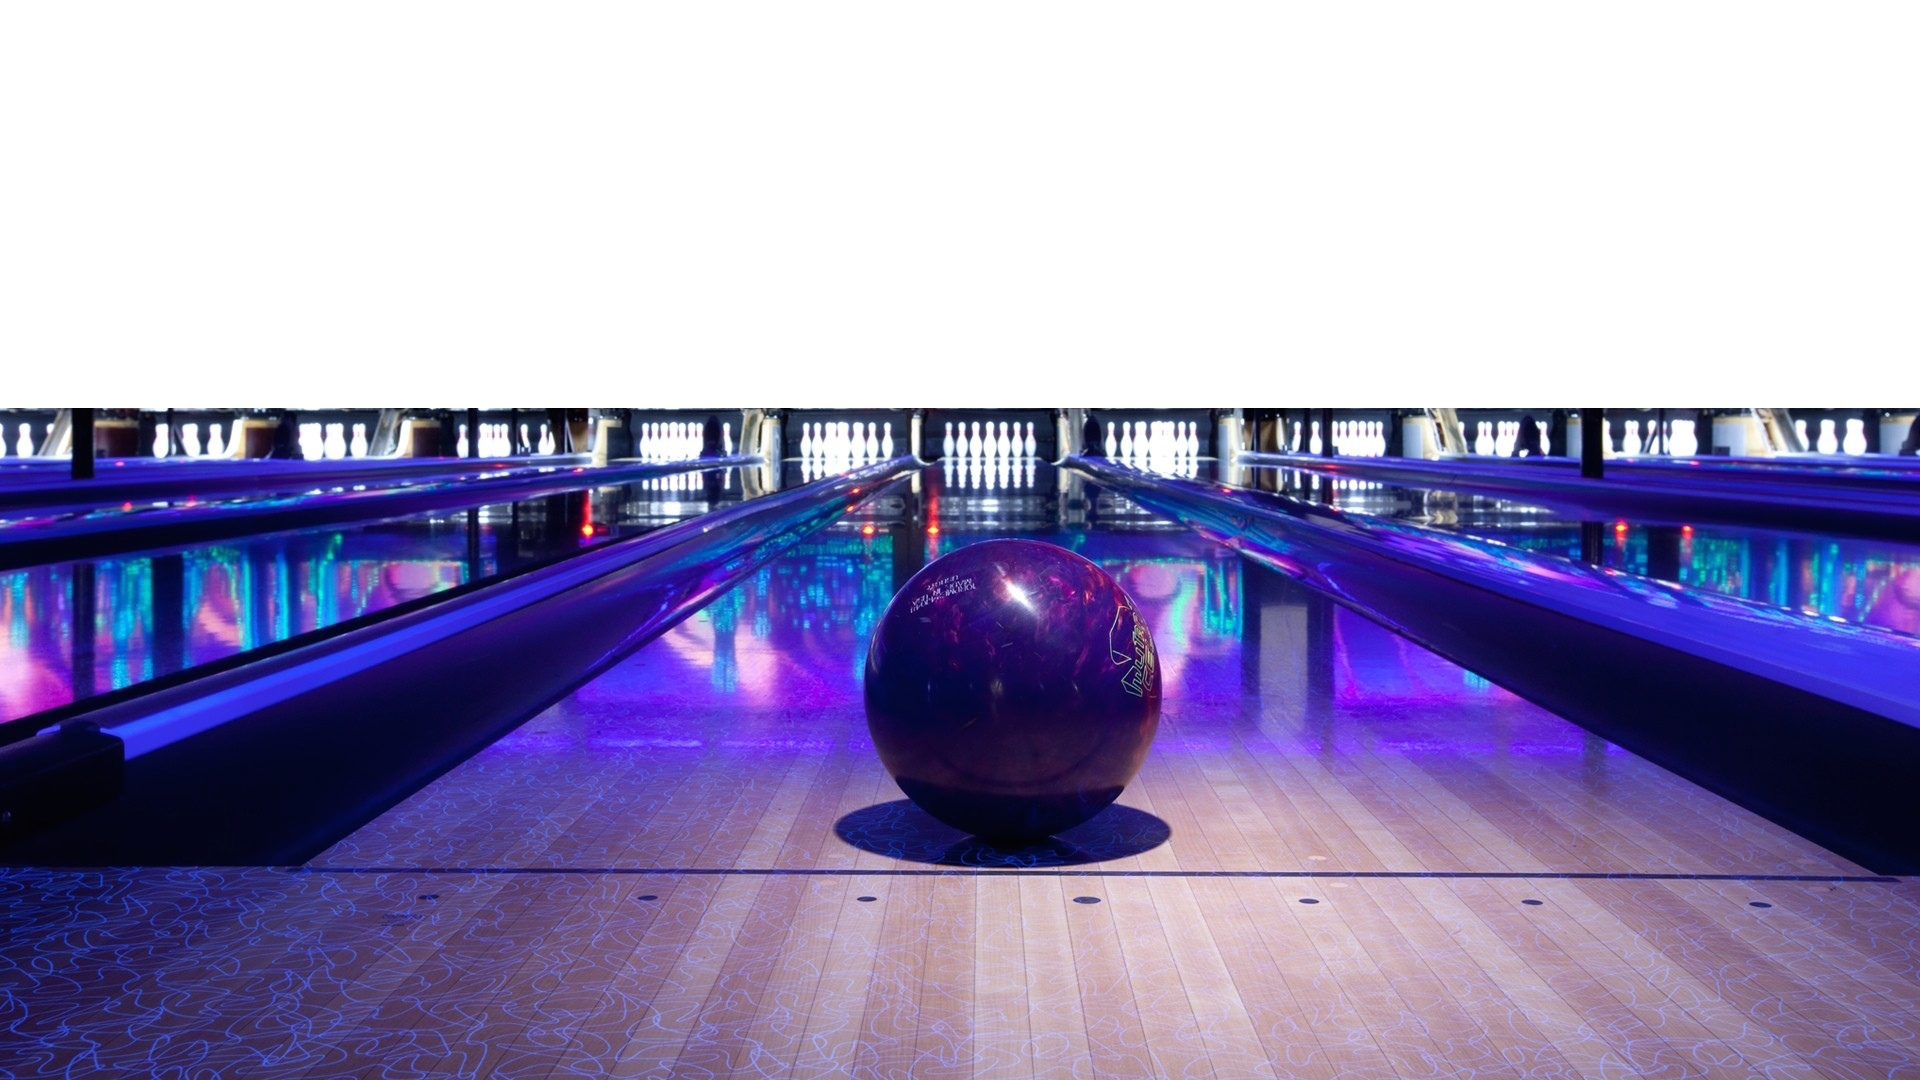
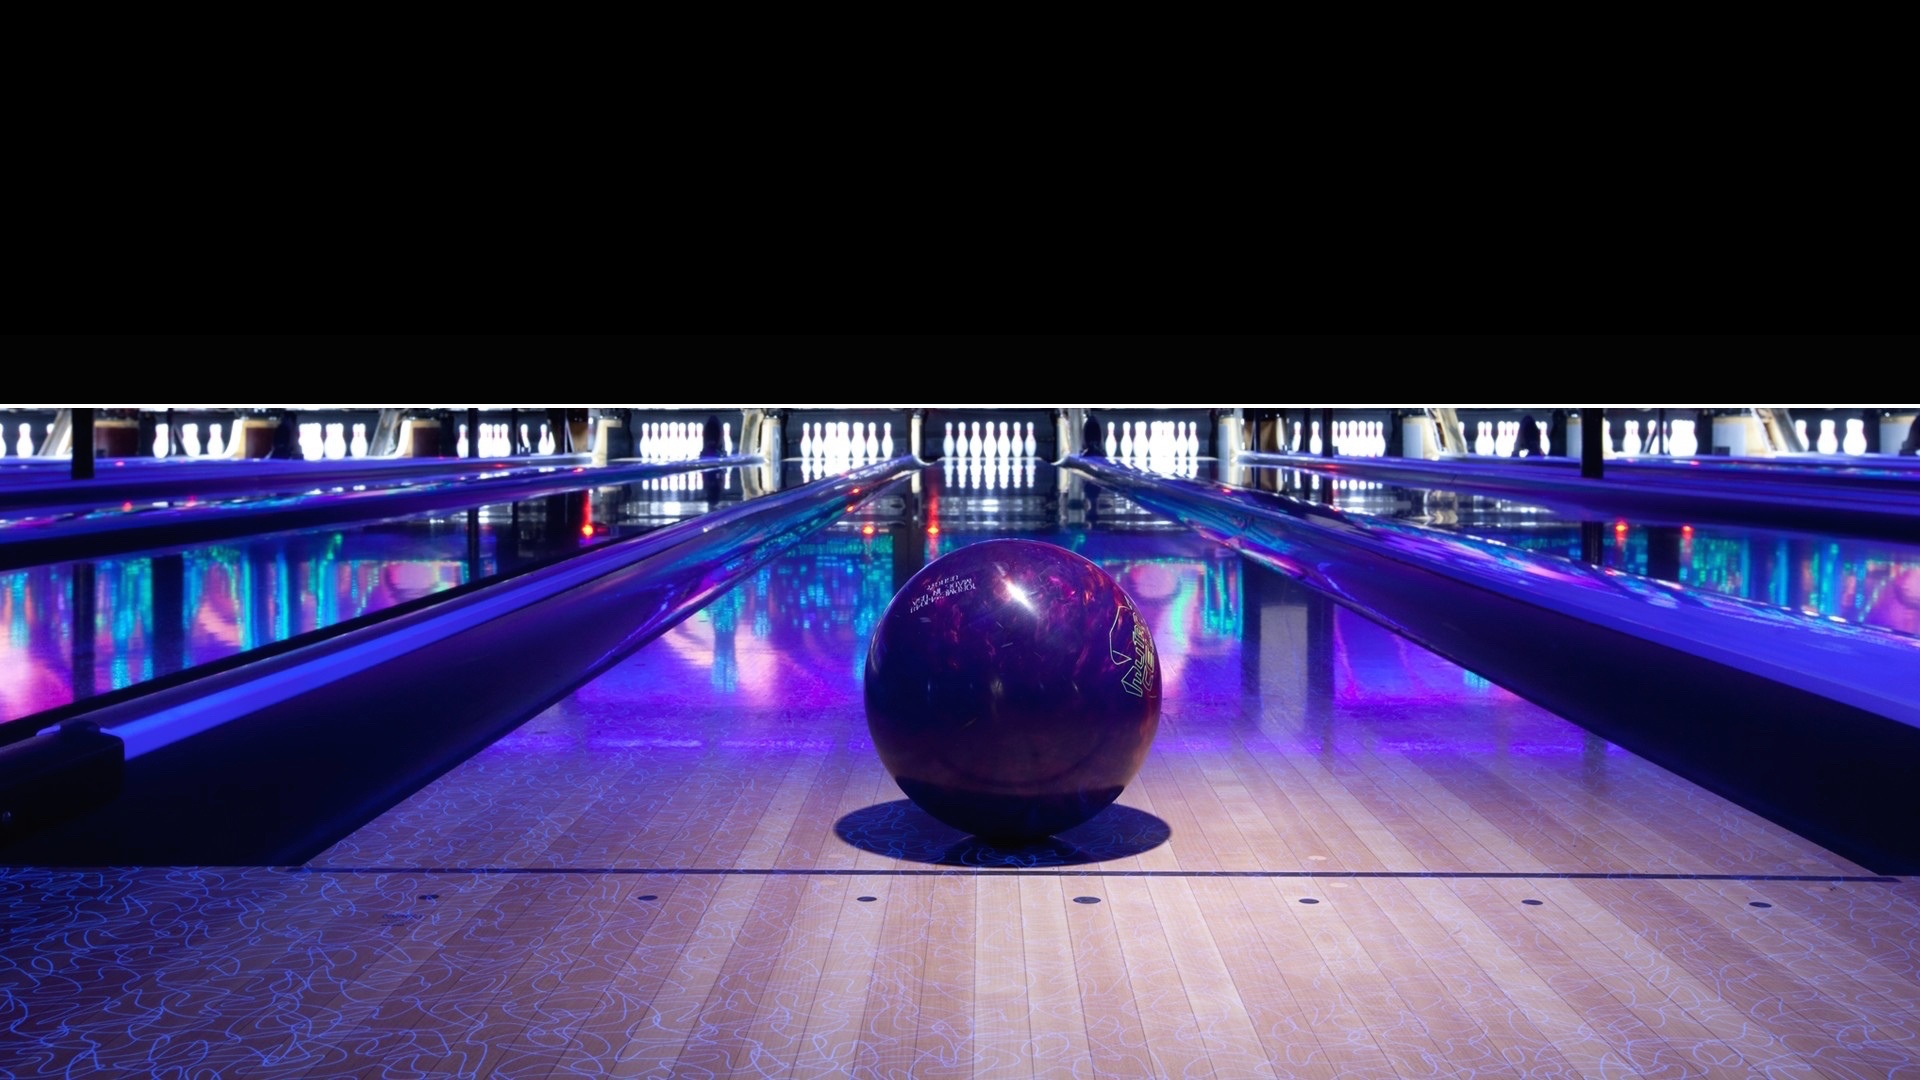
styling

diff --git a/css/scorecard-style.css b/css/scorecard-style.css
@@ -9,16 +9,17 @@ body {
 }
 
 header {
-  background-color: white;
   font-size: 100px;
   color: #6600CC;
 }
 
 table {
   background-color: white;
+  font-size: 20px;
 }
 
 form {
-  background-color: white;
-  width: 230px;
+  background-color: black;
+  color: white;
+  font-size: 20px;
 }
